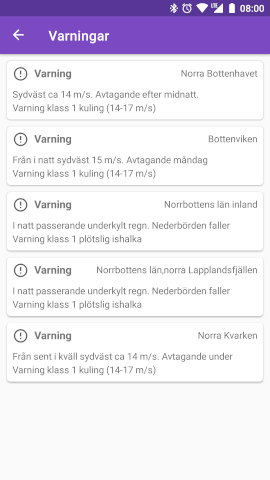
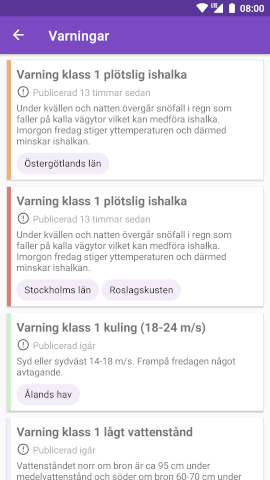
redesign warning ui

diff --git a/app/src/main/java/fi/kroon/vadret/presentation/adapter/AlertAdapter.kt b/app/src/main/java/fi/kroon/vadret/presentation/adapter/AlertAdapter.kt
@@ -4,9 +4,15 @@ import android.view.LayoutInflater
 import android.view.View
 import android.view.ViewGroup
 import androidx.recyclerview.widget.RecyclerView
+import com.google.android.material.chip.Chip
 import fi.kroon.vadret.R
+import fi.kroon.vadret.data.alert.model.Info
 import fi.kroon.vadret.data.alert.model.Warning
+import fi.kroon.vadret.utils.extensions.splitToList
+import fi.kroon.vadret.utils.extensions.toTimeAgo
 import kotlinx.android.synthetic.main.alert_item.view.*
+import timber.log.Timber
+import java.util.Locale
 import javax.inject.Inject
 import kotlin.properties.Delegates
 
@@ -19,22 +25,65 @@ class AlertAdapter @Inject constructor() : RecyclerView.Adapter<AlertAdapter.Vie
     class ViewHolder(itemView: View) : RecyclerView.ViewHolder(itemView) {
 
         fun bind(warning: Warning) {
-            itemView.alertTitle.setText(handleMsgType(warning.msgType))
-            itemView.areaDesc.text = warning.info.headline
+
+            val timeAgo = "${itemView.context.getString(R.string.published)} ${warning.sent.toTimeAgo(itemView.context)}"
+
+            itemView.issued.text = timeAgo
             itemView.alertDescription.text = warning.info.description
 
+            val locale = Locale.getDefault().displayLanguage
+            Timber.i("Locale currently: $locale")
+
             warning.info.eventCode.map {
-                if (it.valueName == "system_event_level_sv-SE") {
-                    itemView.alertSubject.text = it.value
+                when (it.valueName) {
+                    "system_event_priority" -> setWarningColor(it.value)
+                }
+            }
+
+            setEventLevel(warning.info)
+
+            val headlines = warning.info.headline.splitToList()
+            headlines.let {
+                itemView.chipGroup.removeAllViews()
+                initialise(it)
+            }
+        }
+
+        private fun setWarningColor(level: String) {
+            when (level) {
+                "1" -> itemView.rectangle_at_the_top.setBackgroundResource(R.color.warning_class_1)
+                "2" -> itemView.rectangle_at_the_top.setBackgroundResource(R.color.warning_class_2)
+                "3" -> itemView.rectangle_at_the_top.setBackgroundResource(R.color.warning_class_3)
+                "5" -> itemView.rectangle_at_the_top.setBackgroundResource(R.color.risk_for_very_difficult_weather)
+                "6" -> itemView.rectangle_at_the_top.setBackgroundResource(R.color.risk_for_fire)
+                "7" -> itemView.rectangle_at_the_top.setBackgroundResource(R.color.message_high_temperature)
+                else -> itemView.rectangle_at_the_top.setBackgroundResource(R.color.the_one)
+            }
+        }
+
+        private fun setEventLevel(info: Info) {
+            when (Locale.getDefault().displayLanguage) {
+                "English" -> setEvent("system_event_level", info)
+                else -> setEvent("system_event_level_sv-SE", info)
+            }
+        }
+
+        private fun setEvent(key: String, info: Info) {
+            info.eventCode.map {
+                Timber.d("Event key is: $key")
+                when (it.valueName) {
+                    key -> itemView.alertTitle.text = it.value
                 }
             }
         }
 
-        private fun handleMsgType(string: String): Int {
-            return when (string) {
-                "Alert" -> R.string.warning
-                else -> R.string.warning
-            }
+        private fun initialise(data: List<String>) = data.map {
+            val chip = Chip(itemView.chipGroup.context)
+            chip.text = it
+            chip.isCheckable = false
+            chip.isClickable = false
+            chip.setChipBackgroundColorResource(R.color.the_one)
+            itemView.chipGroup.addView(chip)
         }
     }
 

diff --git a/app/src/test/java/fi/kroon/vadret/common/StringTest.kt b/app/src/test/java/fi/kroon/vadret/common/StringTest.kt
@@ -1,0 +1,66 @@
+package fi.kroon.vadret.common
+
+import fi.kroon.vadret.utils.extensions.parseToLocalDate
+import fi.kroon.vadret.utils.extensions.splitByCommaTakeFirst
+import fi.kroon.vadret.utils.extensions.splitBySpaceTakeFirst
+import fi.kroon.vadret.utils.extensions.splitToList
+import org.assertj.core.api.Assertions
+import org.junit.Test
+import org.junit.runner.RunWith
+import org.mockito.junit.MockitoJUnitRunner
+import org.threeten.bp.LocalDate
+import org.threeten.bp.OffsetDateTime
+
+@RunWith(MockitoJUnitRunner::class)
+class StringTest {
+
+    @Test
+    fun `empty list is null`() {
+        val emptyString = ""
+        val emptyList = emptyList<String>()
+        val result = emptyString.splitToList()
+
+        Assertions.assertThat(result).isInstanceOf(List::class.java)
+        Assertions.assertThat(result).isEqualTo(emptyList)
+        Assertions.assertThat(result.size).isEqualTo(0)
+    }
+
+    @Test
+    fun `concatenated String is split into list of strings`() {
+        val listOfString = listOf("a", "b", "c", "d", "e")
+        val data = "a, b, c, d, e"
+        val result = data.splitToList()
+
+        Assertions.assertThat(result).isInstanceOf(List::class.java)
+        Assertions.assertThat(result).isEqualTo(listOfString)
+        Assertions.assertThat(result.size).isEqualTo(listOfString.size)
+    }
+
+    @Test
+    fun `concatenated string by comma is split and first String returned`() {
+        val data = "a, b, c, d, e"
+        val result = data.splitByCommaTakeFirst()
+
+        Assertions.assertThat(result).isInstanceOf(String::class.java)
+        Assertions.assertThat(result).isEqualTo("a")
+    }
+
+    @Test
+    fun `concatenated string by space is split and first String returned`() {
+        val data = "a b c d e"
+        val result = data.splitBySpaceTakeFirst()
+
+        Assertions.assertThat(result).isInstanceOf(String::class.java)
+        Assertions.assertThat(result).isEqualTo("a").isNotEqualTo("b")
+    }
+
+    @Test
+    fun `parse string into localdate`() {
+        val localDate = OffsetDateTime.parse("2018-11-22T22:44:50+01:00").toLocalDate()
+        val data = "2018-11-22T22:44:50+01:00"
+        val result = data.parseToLocalDate()
+
+        Assertions.assertThat(result).isInstanceOf(LocalDate::class.java)
+        Assertions.assertThat(result).isEqualTo(localDate)
+    }
+}

diff --git a/app/src/main/java/fi/kroon/vadret/utils/extensions/String.kt b/app/src/main/java/fi/kroon/vadret/utils/extensions/String.kt
@@ -1,7 +1,40 @@
 package fi.kroon.vadret.utils.extensions
 
+import android.content.Context
+import fi.kroon.vadret.R
+import fi.kroon.vadret.data.DAY_MILLIS
+import fi.kroon.vadret.data.HOUR_MILLIS
+import fi.kroon.vadret.data.MINUTE_MILLIS
 import org.threeten.bp.OffsetDateTime
+import timber.log.Timber
 
 fun String.splitByCommaTakeFirst() = this.split(",").get(0).trim()
 fun String.splitBySpaceTakeFirst() = this.split(" ").get(0).trim()
+fun String.splitToList(): List<String> = this.split(",").map { it.trim() }.filter { it.isNotEmpty() }.toList()
 fun String.parseToLocalDate() = OffsetDateTime.parse(this).toLocalDate()
+fun String.toTimeAgo(context: Context): String {
+
+    val date = OffsetDateTime.parse(this).toEpochSecond()
+    Timber.d("Epoch is $date")
+
+    var time = date
+    if (time < 1000000000000L) {
+        time *= 1000
+    }
+
+    val now = System.currentTimeMillis()
+    if (time > now || time <= 0) {
+        return context.getString(R.string.in_the_future)
+    }
+
+    val diff = now - time
+    return when {
+        diff < MINUTE_MILLIS -> context.getString(R.string.moments_ago)
+        diff < 2 * MINUTE_MILLIS -> context.getString(R.string.a_minute_ago)
+        diff < 60 * MINUTE_MILLIS -> "${diff / MINUTE_MILLIS} ${context.getString(R.string.minutes_ago)}"
+        diff < 2 * HOUR_MILLIS -> context.getString(R.string.an_hour_ago)
+        diff < 24 * HOUR_MILLIS -> "${diff / HOUR_MILLIS} ${context.getString(R.string.hours_ago)}"
+        diff < 48 * HOUR_MILLIS -> context.getString(R.string.yesterday)
+        else -> "${diff / DAY_MILLIS} ${context.getString(R.string.days_ago)}"
+    }
+}

diff --git a/app/src/main/java/fi/kroon/vadret/data/Constants.kt b/app/src/main/java/fi/kroon/vadret/data/Constants.kt
@@ -34,3 +34,7 @@ const val FINLAND = "fi"
 const val POLAND = "pl"
 const val DENMARK = "dk"
 const val GERMANY = "de"
+const val SECOND_MILLIS = 1000
+const val MINUTE_MILLIS = 60 * SECOND_MILLIS
+const val HOUR_MILLIS = 60 * MINUTE_MILLIS
+const val DAY_MILLIS = 24 * HOUR_MILLIS

diff --git a/app/src/main/java/fi/kroon/vadret/data/alert/model/EventCode.kt b/app/src/main/java/fi/kroon/vadret/data/alert/model/EventCode.kt
@@ -1,6 +1,12 @@
 package fi.kroon.vadret.data.alert.model
 
+import com.squareup.moshi.Json
+
 data class EventCode(
+
+    @Json(name = "valueName")
     val valueName: String,
+
+    @Json(name = "value")
     val value: String
 )

diff --git a/app/src/main/res/raw/changelog.md b/app/src/main/res/raw/changelog.md
@@ -5,6 +5,11 @@ and this project adheres to [Semantic Versioning](https://semver.org/spec/v2.0.0
 
 ## [Unreleased]
 
+## [0.1.5] -- 2018-11-29
+
+### Added
+- Refreshed UI on warnings
+
 ## [0.1.4] -- 2018-11-27
 
 ### Added
@@ -55,7 +60,8 @@ and this project adheres to [Semantic Versioning](https://semver.org/spec/v2.0.0
 - Radar imagery
 - 10 day weather forecast
 
-[Unreleased]: https://github.com/vadret/android/compare/0.1.4...HEAD
+[Unreleased]: https://github.com/vadret/android/compare/0.1.5...HEAD
+[0.1.5]: https://github.com/vadret/android/compare/0.1.4...0.1.5
 [0.1.4]: https://github.com/vadret/android/compare/0.1.3...0.1.4
 [0.1.3]: https://github.com/vadret/android/compare/0.1.2...0.1.3
 [0.1.2]: https://github.com/vadret/android/compare/0.1.1...0.1.2
